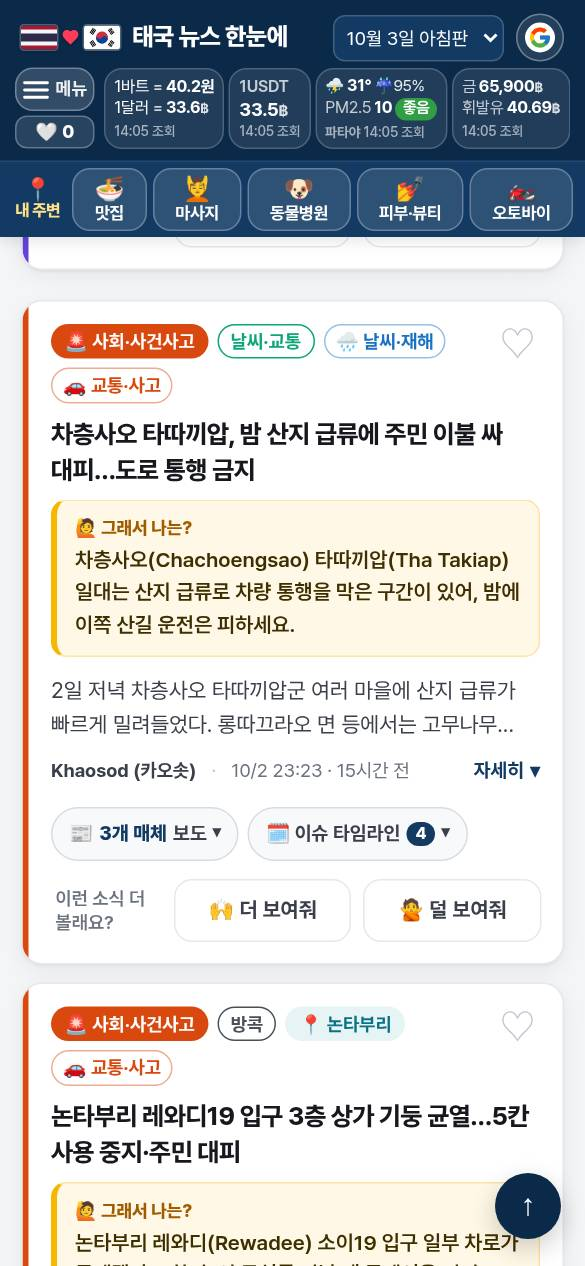
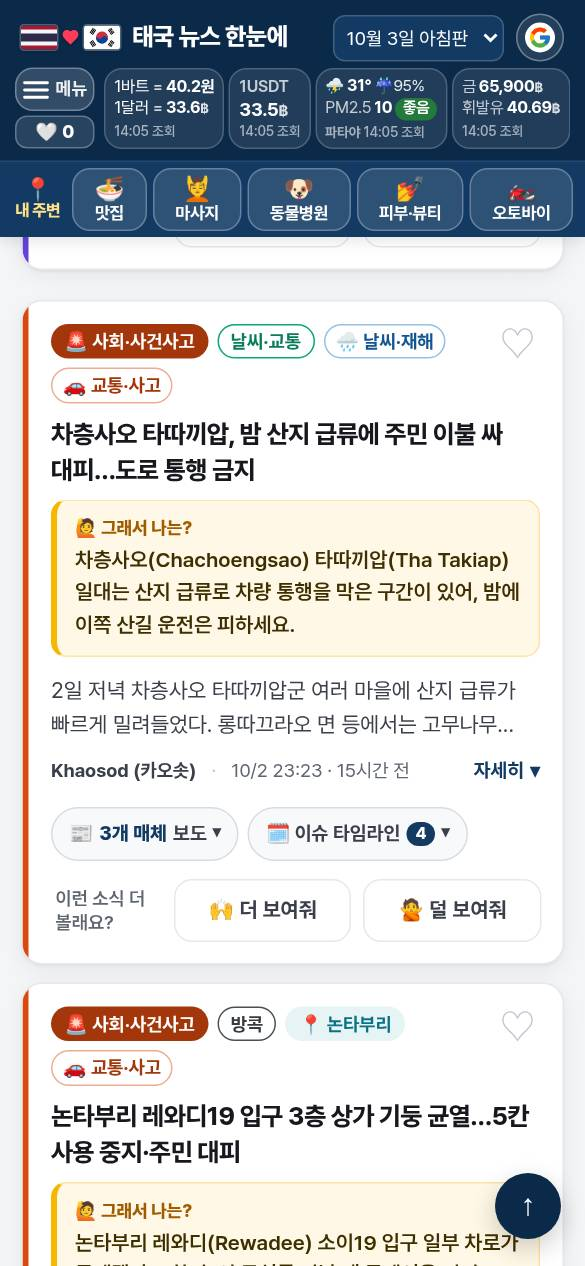
기록: ⑥b 글자 대비(사진·BACKUPS·DEV_LOG·문제점)

diff --git a/DEV_LOG.md b/DEV_LOG.md
@@ -38,3 +38,5 @@
 - 문제점(⑤ 15:10): 보통 · 주소창 없는 Android 앱 · TWA 는 도메인 맨 위 `/.well-known/assetlinks.json` 필요 — 지금 주소(/thai-news-kr/ 하위)로는 불가 → 승인함 #5 와 같이 해결 / 낮음 · 노치 여백 · env(safe-area-inset-*) 는 헤드리스에서 0 이라 실제 아이폰 홈 화면 앱에서 헤더 위 여백 미확인 / 낮음 · 뒤로 버튼 · 기사 펼침(#기사 id)은 주소만 바꾸고 기록 칸을 안 넣음(뒤로 = 이전 화면) — 그대로 둠 / 낮음 · Capacitor 앱 안 Google 로그인 팝업은 막힐 수 있음(앱용 플러그인 필요, 나중)
 - 15:13 · ⑥a 다듬기 — 한국어 404 쪽(없는 주소), 첫 화면 뼈대(주요 뉴스 1칸·기사 3칸 — 빈 화면 대신), 판 불러오기 실패 = '10월 3일 아침판 뉴스를 불러오지 못했어요' + 다시 시도(오프라인이면 📡 안내), 빈 주제 안내 문구(~요체·☰ 안내) · `backup-20261003-1509-polish-404` · 확인됨(로컬·라이브 회귀 36 통과·0 실패 — 라이브 404 상태 404·한국어 확인, 실패·뼈대 화면은 로컬에서 요청을 막아 확인)
 - 문제점(⑥a 15:15): 낮음 · 404 쪽 · 다른 도메인으로 옮기면 '오늘의 뉴스 보기' 경로 계산(github.io 첫 경로)을 다시 봐야 함 / 낮음 · 뼈대 · 빠른 연결에선 거의 안 보임(느린 3G 에서만 의미) / 낮음 · '다시 시도' = 페이지 새로 고침(판 하나만 다시 받기 아님)
+- 15:19 · ⑥b 글자 대비 — 주제·한인 영향 칩(글자·바탕) 25% 어둡게(주황·초록·연두가 흰 바탕에서 3.0~4.3 → 모두 4.5 이상), 보조 회색 #6b7280→#5f6672, 서랍 기사 수 흐림 제거, 미세먼지 '좋음' 초록 진하게, 알림 띠 홈 막대 여백. 회귀 점검에 대비 검사 추가 · `backup-20261003-1515-contrast` · 확인됨(로컬·라이브 회귀 37 통과·0 실패 — 첫 화면 대비 미달 0, 사진 확인). 주요 뉴스 사진 카드 위 글자는 자동 계산 불가(눈으로 확인)
+- 문제점(⑥b 15:20): 낮음 · 대비 검사 범위 · 첫 화면만 자동 검사(서랍·내 주변·안내 쪽은 15:16 에 한 번 손으로 돌려 0곳) / 낮음 · color-mix · 아주 옛 브라우저(크롬 111·사파리 16.2 이전)는 원래 색 그대로(대비 3.0~4.3) / 낮음 · 주요 뉴스 사진 카드 · 그라데이션 위 흰 글자는 계산 못 해 눈으로만 확인

diff --git a/BACKUPS.md b/BACKUPS.md
@@ -30,3 +30,4 @@ git commit -m "되돌리기: <태그> 시점 화면으로" && git push   # force
 | `backup-20261003-1439-adsense-prep` | 10-03 14:39 | d53b1e3 | [after-drawer-legal](backups/backup-20261003-1439-adsense-prep/after-drawer-legal.jpg) [after-drawer](backups/backup-20261003-1439-adsense-prep/after-drawer.jpg) [after-footer](backups/backup-20261003-1439-adsense-prep/after-footer.jpg) [after-home](backups/backup-20261003-1439-adsense-prep/after-home.jpg) [after-privacy](backups/backup-20261003-1439-adsense-prep/after-privacy.jpg) [after-top-banner-360](backups/backup-20261003-1439-adsense-prep/after-top-banner-360.jpg) [before-footer](backups/backup-20261003-1439-adsense-prep/before-footer.jpg) [before-home](backups/backup-20261003-1439-adsense-prep/before-home.jpg) | `git checkout backup-20261003-1439-adsense-prep -- .` 후 커밋 |
 | `backup-20261003-1501-app-pack` | 10-03 15:01 | e6cc96c | [after-drawer](backups/backup-20261003-1501-app-pack/after-drawer.jpg) [after-home](backups/backup-20261003-1501-app-pack/after-home.jpg) [after-offline](backups/backup-20261003-1501-app-pack/after-offline.jpg) [before-drawer](backups/backup-20261003-1501-app-pack/before-drawer.jpg) [before-home](backups/backup-20261003-1501-app-pack/before-home.jpg) | `git checkout backup-20261003-1501-app-pack -- .` 후 커밋 |
 | `backup-20261003-1509-polish-404` | 10-03 15:09 | 3704830 | [after-404](backups/backup-20261003-1509-polish-404/after-404.jpg) [after-load-fail](backups/backup-20261003-1509-polish-404/after-load-fail.jpg) [after-loading](backups/backup-20261003-1509-polish-404/after-loading.jpg) [before-load-fail](backups/backup-20261003-1509-polish-404/before-load-fail.jpg) [before-loading](backups/backup-20261003-1509-polish-404/before-loading.jpg) | `git checkout backup-20261003-1509-polish-404 -- .` 후 커밋 |
+| `backup-20261003-1515-contrast` | 10-03 15:15 | 21b6fa7 | [after-drawer](backups/backup-20261003-1515-contrast/after-drawer.jpg) [after-feed](backups/backup-20261003-1515-contrast/after-feed.jpg) [before-drawer](backups/backup-20261003-1515-contrast/before-drawer.jpg) [before-feed](backups/backup-20261003-1515-contrast/before-feed.jpg) | `git checkout backup-20261003-1515-contrast -- .` 후 커밋 |

diff --git a/backups/backup-20261003-1515-contrast/README.md b/backups/backup-20261003-1515-contrast/README.md
@@ -1,0 +1,3 @@
+- 바뀐 것: ⑥b 글자 대비 — 주제·한인 영향 칩(글자·바탕) 25% 어둡게(주황·초록·연두가 흰 바탕에서 3.0~4.3 → 모두 4.5 이상), 보조 회색 #6b7280→#5f6672, 서랍 기사 수 흐림 제거, 미세먼지 '좋음' 초록 진하게, 알림 띠 홈 막대 여백. 회귀 점검에 대비 검사 추가
+- 왜: 작은 칩 글자가 햇빛 아래 휴대폰에서 잘 안 읽혀서(WCAG AA 4.5:1 기준, 리뷰어 순서 ⑥ '대비')
+- 되돌리는 법: `git checkout backup-20261003-1515-contrast -- .` → `git checkout origin/main -- data/` → 커밋 → push (force 금지, BACKUPS.md 맨 위 설명 참고)
